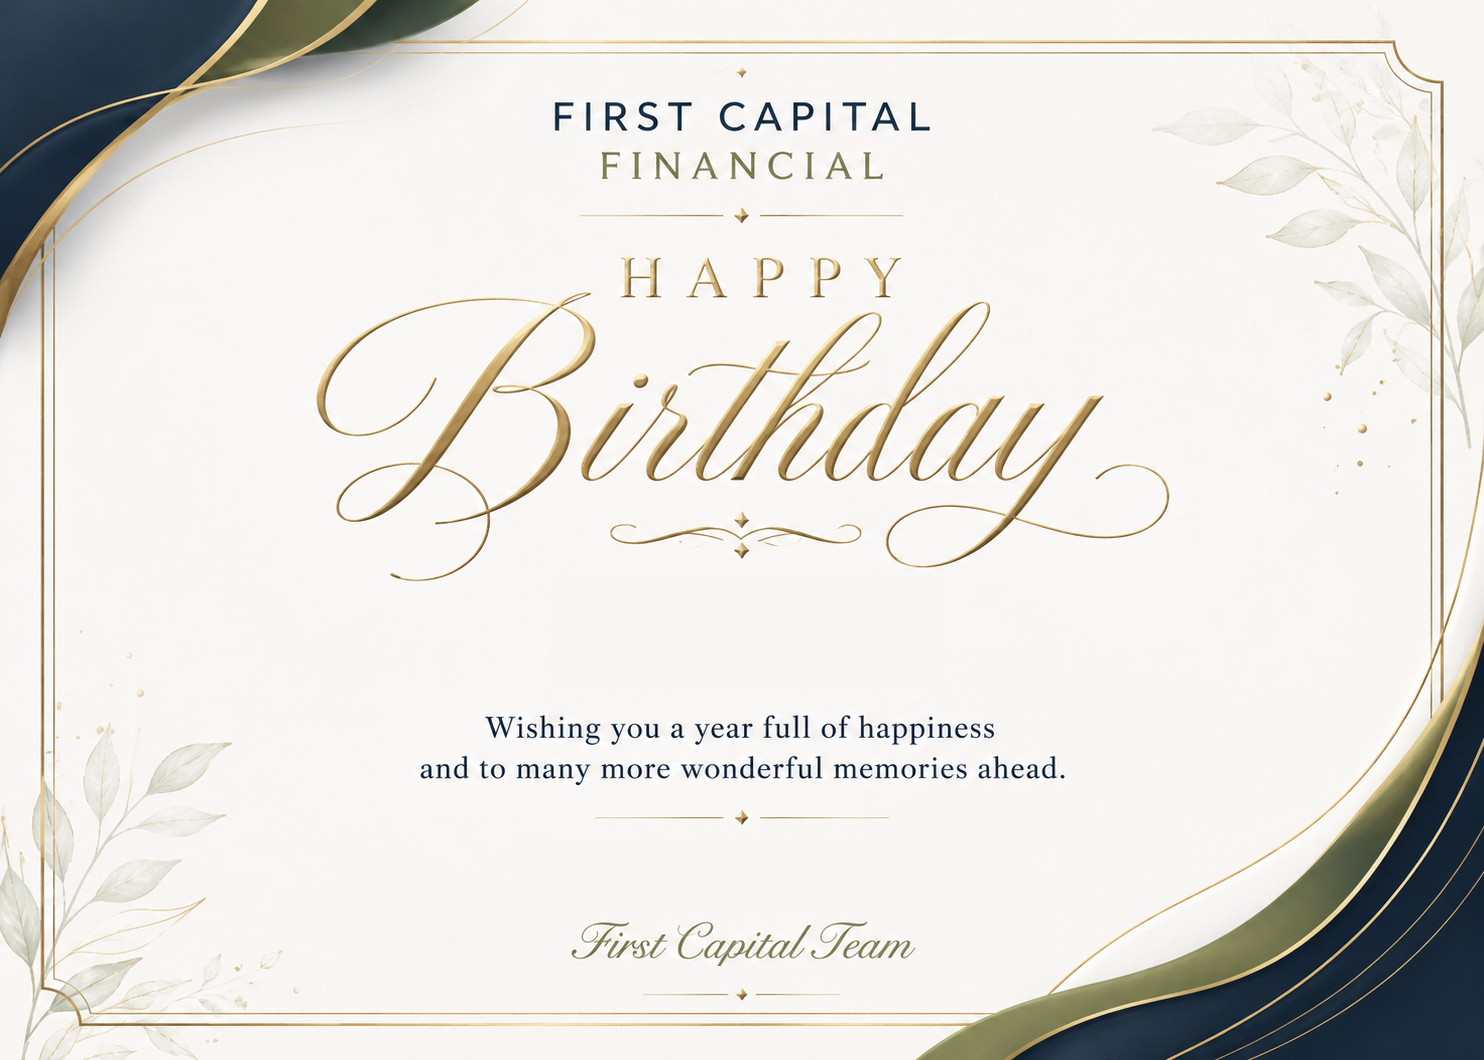
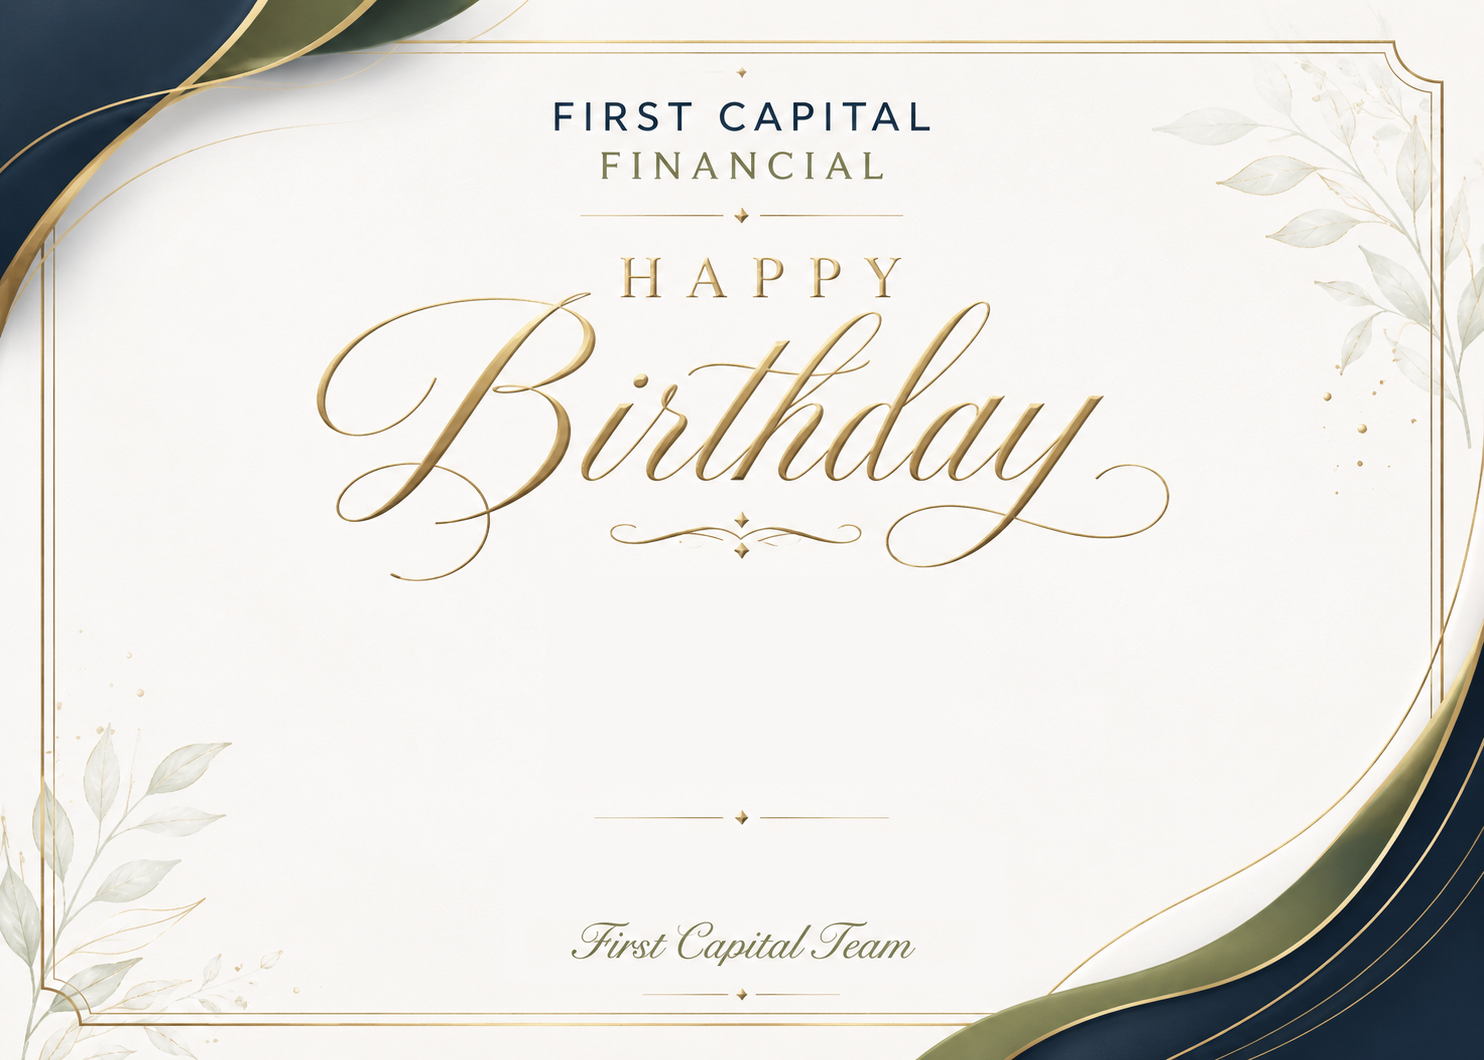
Replace card message with matching live text

Changed region(s): [[0.279, 0.6538, 0.7129, 0.7472]]

diff --git a/index.html b/index.html
@@ -106,6 +106,25 @@
       color: var(--ink);
     }
 
+    .card-message {
+      position: absolute;
+      left: 50%;
+      top: 70.5%;
+      width: 64%;
+      margin: 0;
+      transform: translate(-50%, -50%);
+      text-align: center;
+      font-family: Georgia, "Times New Roman", serif;
+      font-size: clamp(9px, 1.55vw, 14px);
+      line-height: 1.35;
+      font-weight: 500;
+      color: var(--ink);
+    }
+
+    .card-message span {
+      display: block;
+    }
+
     .card-advisor {
       position: absolute;
       left: 50%;
@@ -367,6 +386,10 @@
           <article class="letter" aria-live="polite">
             <img class="card-image" src="assets/birthday-card-template.png" alt="Happy birthday from First Capital Financial">
             <h1 class="card-name" id="cardHeadline">there</h1>
+            <p class="card-message">
+              <span>Wishing you a year full of happiness</span>
+              <span>and many more wonderful memories ahead.</span>
+            </p>
             <p class="card-advisor">
               <span id="cardAdvisor">From your advisor and</span>
               <span>the rest of the</span>
